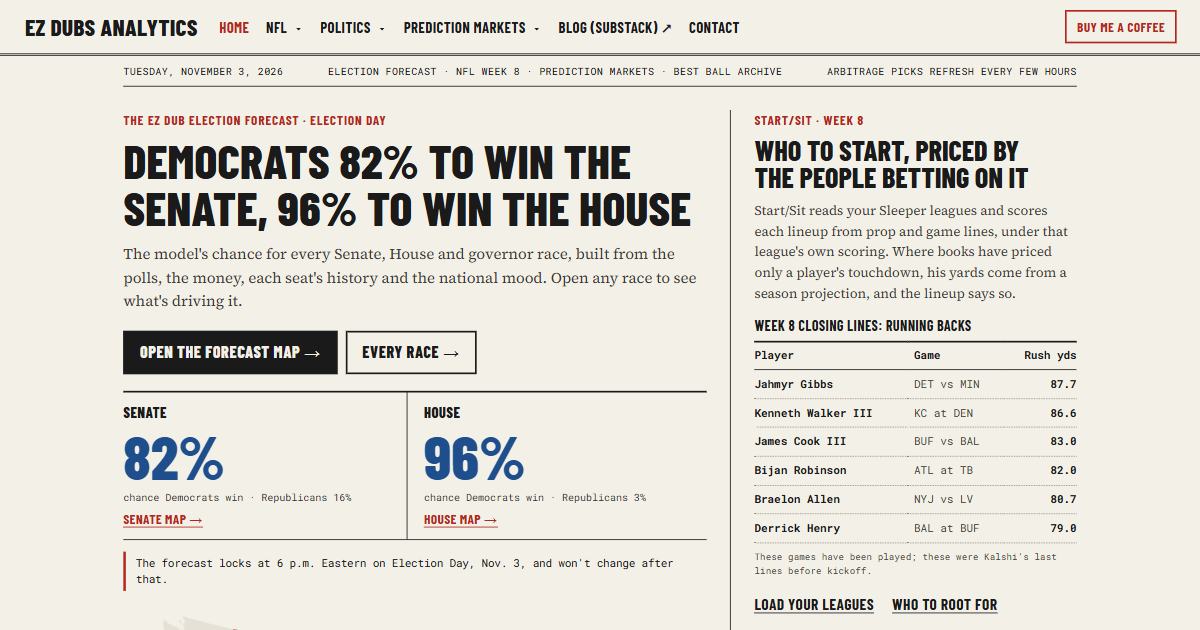
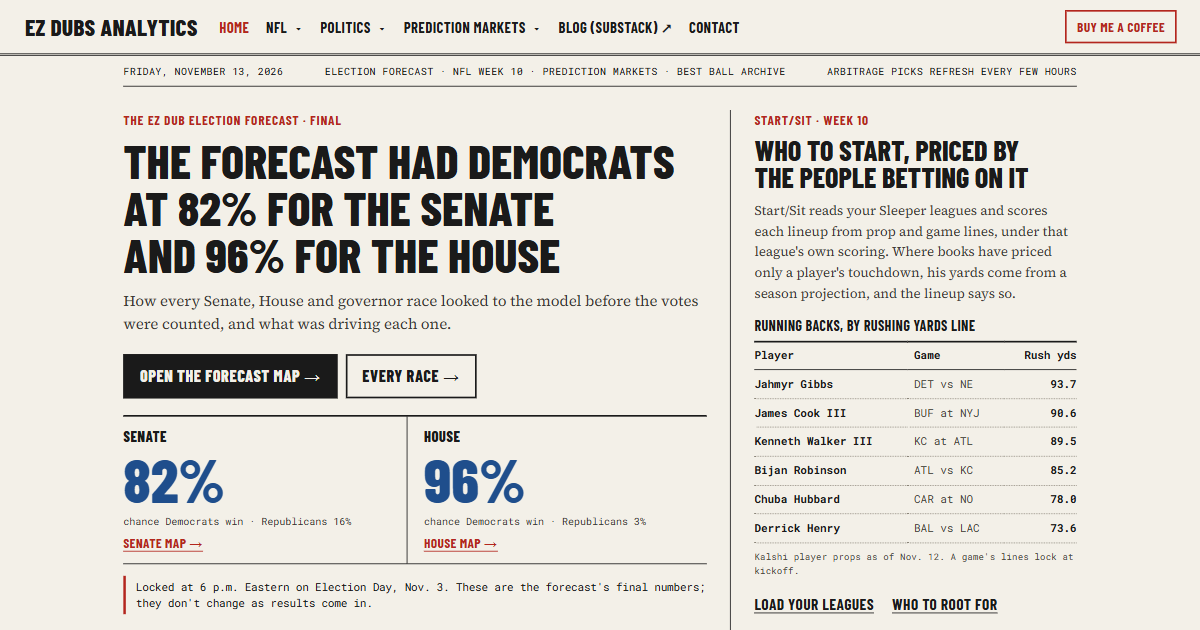
Phone menu scrolls, arbs page opens at the top, fresh previews, election cron off
- Phone menu: open, it is about 860px tall and the nav is sticky, so its last
  entries (Arb Calculator, Blog, Contact on a 390x664 view) sat below the
  screen and could not be reached. At 1080px and below the nav is capped to
  the screen and scrolls inside itself. verify_nav checks the rule stays.
- Arbitrage Picks: dropped autofocus on the password box, which scrolled the
  page 368px down on load on a phone.
- Link previews: home.png re-shot (it still read "Election Day" and "locks at
  6 p.m."), and Book Spread gets its screenshot in place of the logo.
- politics-pull.yml: schedule commented out. Since the Election Day lock every
  run only logged "nothing to do". Manual dispatch remains.
- site.css tag to box-score-6 on the hand-made pages; NFL pages re-ported.
- Docs: CLAUDE.md, README, audit log item 44.

diff --git a/index.html b/index.html
@@ -12,12 +12,12 @@
     <meta property="og:description" content="The EZ Dub Election Forecast for every 2026 Senate, House and governor race, plus data tools for sports and prediction markets.">
     <meta property="og:url" content="https://ezdubsanalytics.com/">
     <meta property="og:type" content="website">
-    <meta property="og:image" content="https://ezdubsanalytics.com/assets/previews/home.png?v=5fc394662d">
+    <meta property="og:image" content="https://ezdubsanalytics.com/assets/previews/home.png?v=c3565ef596">
     <meta property="og:image:width" content="1200">
     <meta property="og:image:height" content="630">
     <meta name="twitter:card" content="summary_large_image">
-    <meta name="twitter:image" content="https://ezdubsanalytics.com/assets/previews/home.png?v=5fc394662d">
-    <link rel="stylesheet" href="assets/site.css?v=box-score-5">
+    <meta name="twitter:image" content="https://ezdubsanalytics.com/assets/previews/home.png?v=c3565ef596">
+    <link rel="stylesheet" href="assets/site.css?v=box-score-6">
     <style>
         /* The home page is a front page: a dateline, a lead story on the left
            (the election forecast since 2026-11-02: a Senate map and two tables),

diff --git a/dashboards/prediction-arbitrage/index.html b/dashboards/prediction-arbitrage/index.html
@@ -17,7 +17,7 @@
     <meta property="og:image:height" content="630">
     <meta name="twitter:card" content="summary_large_image">
     <meta name="twitter:image" content="https://ezdubsanalytics.com/assets/previews/prediction-arbitrage.png?v=2087ee6944">
-    <link rel="stylesheet" href="../../assets/site.css?v=box-score-5">
+    <link rel="stylesheet" href="../../assets/site.css?v=box-score-6">
     <style>
         main { max-width: 1120px; margin: 0 auto; padding: 36px 24px 24px; }
         h1 { font-size: clamp(2.4rem, 5vw, 3.4rem); margin: 0 0 10px; }
@@ -319,7 +319,7 @@
             <div class="gate-title">Password required</div>
             <div class="gate-sub">Enter the password to view today's arbitrage picks.</div>
             <form class="gate-form" id="gate-form">
-                <input type="password" id="gate-input" placeholder="Password" autocomplete="off" autofocus aria-label="Password">
+                <input type="password" id="gate-input" placeholder="Password" autocomplete="off" aria-label="Password">
                 <button type="submit">Unlock</button>
             </form>
             <div class="gate-error" id="gate-error"></div>

diff --git a/dashboards/nfl-book-spread/index.html b/dashboards/nfl-book-spread/index.html
@@ -10,10 +10,13 @@
   <meta property="og:description" content="NFL players ranked by how far apart the sportsbooks' projections are, with a dot for every book." />
   <meta property="og:url" content="https://ezdubsanalytics.com/dashboards/nfl-book-spread/" />
   <meta property="og:type" content="website" />
-  <meta property="og:image" content="https://ezdubsanalytics.com/EDA.png" />
-  <meta name="twitter:card" content="summary" />
+  <meta property="og:image" content="https://ezdubsanalytics.com/assets/previews/nfl-book-spread.png?v=2ca151edc0" />
+  <meta property="og:image:width" content="1200" />
+  <meta property="og:image:height" content="630" />
+  <meta name="twitter:card" content="summary_large_image" />
+  <meta name="twitter:image" content="https://ezdubsanalytics.com/assets/previews/nfl-book-spread.png?v=2ca151edc0" />
   <link rel="stylesheet" href="../nfl-shared/style.css?v=135ee057f8" />
-<link rel="stylesheet" href="../../assets/site.css?v=box-score-5">
+<link rel="stylesheet" href="../../assets/site.css?v=box-score-6">
 <style>
 
     </style>

diff --git a/scripts/verify_nav.test.js b/scripts/verify_nav.test.js
@@ -116,6 +116,12 @@ for (const [name, rel] of PAGES) {
   check(`${name}: menu toggle is focusable at phone widths`,
         /@media \(max-width: \d+px\) \{[\s\S]*?\.site-nav \.nav-toggle \{[^}]*display: block/.test(css) &&
         /\.nav-toggle:focus-visible ~ \.nav-toggle-label/.test(css));
+  // The open menu is taller than most phone screens and the nav is sticky, so
+  // without a height cap and its own scroll the last entries sat below the
+  // screen and could not be reached (measured 2026-11-13: four of them on a
+  // 390x664 view). Adding a menu entry makes this matter more, not less.
+  check(`${name}: open phone menu is capped to the screen and scrolls`,
+        /@media \(max-width: \d+px\) \{[\s\S]*?\.site-nav \{[^}]*max-height: 100dvh[^}]*overflow-y: auto/.test(css));
 
   // External links in the nav should not leak the referrer or opener.
   for (const m of nav.matchAll(/<a\b[^>]*target="_blank"[^>]*>/gi)) {

diff --git a/assets/site.css b/assets/site.css
@@ -140,6 +140,13 @@ a:hover { color: var(--red); }
         outline: 2px solid var(--red); outline-offset: 2px;
     }
     .site-nav { flex-wrap: wrap; gap: 10px; padding: 10px 16px; }
+    /* The open menu is about 860px tall, more than most phones show, and the
+       nav is sticky: whatever fell below the screen (Arb Calculator, Blog,
+       Contact on a 390x664 view) stayed there until the end of the page. The
+       nav now stops at the screen's height and scrolls inside itself, without
+       dragging the page behind it. Closed, it is 57px and this does nothing.
+       100vh first for browsers without dvh. (2026-11-13) */
+    .site-nav { max-height: 100vh; max-height: 100dvh; overflow-y: auto; overscroll-behavior: contain; }
     .site-nav .brand { font-size: 1.5rem; }
     .site-nav .nav-toggle-label {
         display: flex; flex-direction: column; gap: 4px;

diff --git a/dashboards/best-ball-prices/index.html b/dashboards/best-ball-prices/index.html
@@ -17,7 +17,7 @@
     <meta property="og:image:height" content="630">
     <meta name="twitter:card" content="summary_large_image">
     <meta name="twitter:image" content="https://ezdubsanalytics.com/assets/previews/best-ball-prices.png?v=31f547e23b">
-    <link rel="stylesheet" href="../../assets/site.css?v=box-score-5">
+    <link rel="stylesheet" href="../../assets/site.css?v=box-score-6">
     <style>
         /* The 2026 Best Ball archive in the site's "Box Score" look (restyled
            2026-10-26; the data is frozen, only the styling changed). DraftKings is

diff --git a/dashboards/best-ball-history/index.html b/dashboards/best-ball-history/index.html
@@ -28,7 +28,7 @@
     <script defer src="https://cdn.jsdelivr.net/npm/chart.js@4.4.0/dist/chart.umd.js"
             integrity="sha384-FcQlsUOd0TJjROrBxhJdUhXTUgNJQxTMcxZe6nHbaEfFL1zjQ+bq/uRoBQxb0KMo"
             crossorigin="anonymous"></script>
-    <link rel="stylesheet" href="../../assets/site.css?v=box-score-5">
+    <link rel="stylesheet" href="../../assets/site.css?v=box-score-6">
     <style>
         /* The 2026 Best Ball archive in the site's "Box Score" look (restyled
            2026-10-26; the data is frozen, only the styling changed). As on Best

diff --git a/dashboards/arb-calculator/index.html b/dashboards/arb-calculator/index.html
@@ -17,7 +17,7 @@
     <meta property="og:image:height" content="630">
     <meta name="twitter:card" content="summary_large_image">
     <meta name="twitter:image" content="https://ezdubsanalytics.com/assets/previews/arb-calculator.png?v=47f79a3109">
-    <link rel="stylesheet" href="../../assets/site.css?v=box-score-5">
+    <link rel="stylesheet" href="../../assets/site.css?v=box-score-6">
     <style>
         main { max-width: 860px; margin: 0 auto; padding: 36px 24px 24px; }
         h1 { font-size: clamp(2.2rem, 5vw, 3.2rem); margin: 0 0 12px; }

diff --git a/contact.html b/contact.html
@@ -17,7 +17,7 @@
     <meta property="og:image:height" content="630">
     <meta name="twitter:card" content="summary_large_image">
     <meta name="twitter:image" content="https://ezdubsanalytics.com/assets/previews/contact.png?v=b7aee7c3e1">
-    <link rel="stylesheet" href="assets/site.css?v=box-score-5">
+    <link rel="stylesheet" href="assets/site.css?v=box-score-6">
     <style>
         main { max-width: 680px; margin: 0 auto; padding: 36px 24px 24px; }
         h1 { font-size: clamp(2.4rem, 6vw, 3.4rem); margin: 0 0 12px; }

diff --git a/dashboards/nfl-start-sit/index.html b/dashboards/nfl-start-sit/index.html
@@ -17,7 +17,7 @@
   <meta name="twitter:card" content="summary_large_image" />
   <meta name="twitter:image" content="https://ezdubsanalytics.com/assets/previews/nfl-start-sit.png?v=e8cd1d9560" />
   <link rel="stylesheet" href="../nfl-shared/style.css?v=135ee057f8" />
-<link rel="stylesheet" href="../../assets/site.css?v=box-score-5">
+<link rel="stylesheet" href="../../assets/site.css?v=box-score-6">
 <style>
 
     </style>

diff --git a/dashboards/nfl-rooting/index.html b/dashboards/nfl-rooting/index.html
@@ -17,7 +17,7 @@
   <meta name="twitter:card" content="summary_large_image" />
   <meta name="twitter:image" content="https://ezdubsanalytics.com/assets/previews/nfl-rooting.png?v=9183394561" />
   <link rel="stylesheet" href="../nfl-shared/style.css?v=135ee057f8" />
-<link rel="stylesheet" href="../../assets/site.css?v=box-score-5">
+<link rel="stylesheet" href="../../assets/site.css?v=box-score-6">
 <style>
 
     </style>

diff --git a/docs/site-audit-2026-10-14.md b/docs/site-audit-2026-10-14.md
@@ -949,7 +949,7 @@ uses ten minutes.
   `NFL_SITE_CSS`), as on the Best Ball pages.
 - Not done: a link-preview screenshot for the new page. `render_previews.js`
   needs a local browser, which couldn't run in this session, so the page uses
-  the default logo preview until it is re-run.
+  the default logo preview until it is re-run. (Done 2026-11-13, item 44.)
 
 ### 43. Closing-lines archive, scored against results (2026-11-10)
 
@@ -986,6 +986,41 @@ uses ten minutes.
 - Also fixed on the way: upstream's `books_page.test.js` matched "Maye" inside
   "Mayer", and the lineup page's four view tabs pushed a 360px phone sideways
   (they wrap now).
+
+### 44. Phone menu, arbs load position, stale previews, election cron (2026-11-13)
+
+A pass over every page in real Chrome at 1440px and 390px. Nothing was failing:
+no console errors, failed requests or sideways scroll, and axe clean. Four
+things fixed:
+
+- **The phone menu's last entries could not be reached.** Open, the menu is
+  864px tall, and the nav is sticky, so whatever fell below the screen stayed
+  there until the very end of the page. Opened part-way down Best Ball Prices
+  on a 390x664 view (an iPhone with Safari's bars showing), Arb Calculator,
+  Blog, Contact and Buy Me a Coffee were all off-screen, and scrolling another
+  2,000px did not bring them up. At 1080px and below the nav now stops at the
+  screen's height and scrolls inside itself (`assets/site.css`, one rule, on
+  every page). The stylesheet tag went to `box-score-6` on the six hand-made
+  pages and, through the port, the three NFL pages.
+- **Arbitrage Picks opened scrolled 368px down on a phone.** The password box
+  had `autofocus`, and the browser scrolls a focused field into view, so a
+  visitor arrived below the heading and the "Prices as of" line. Removed; the
+  page opens at the top.
+- **The home page's link preview still said Election Day.** `home.png` was
+  last shot on Nov. 3 and read "Democrats 82% to win the Senate", "The forecast
+  locks at 6 p.m." and Week 8. Re-shot: it now shows the past-tense "Final"
+  copy. Book Spread, which item 42 left on the logo, has its screenshot too.
+- **The election cron is off.** Since the lock it had run twelve times a day,
+  installing Node and Chrome each time to log "nothing to do". Its schedule is
+  commented out, like the ADP cron's; manual dispatch remains.
+
+Found and left for the owner to decide: the home page still leads with the
+forecast (and never says how it did), the calculator rejects prices typed in
+cents ("42") though the picks page quotes cents, Race by Race draws all 506
+races (183,000px on a phone), Best Ball Prices' phone cards run 320px a player
+with no way to sort, Start/Sit shows a first-time visitor nothing without a
+Sleeper username, and a clicked desktop menu stays open until something else
+is clicked.
 
 ## Found but not fixed here
 
